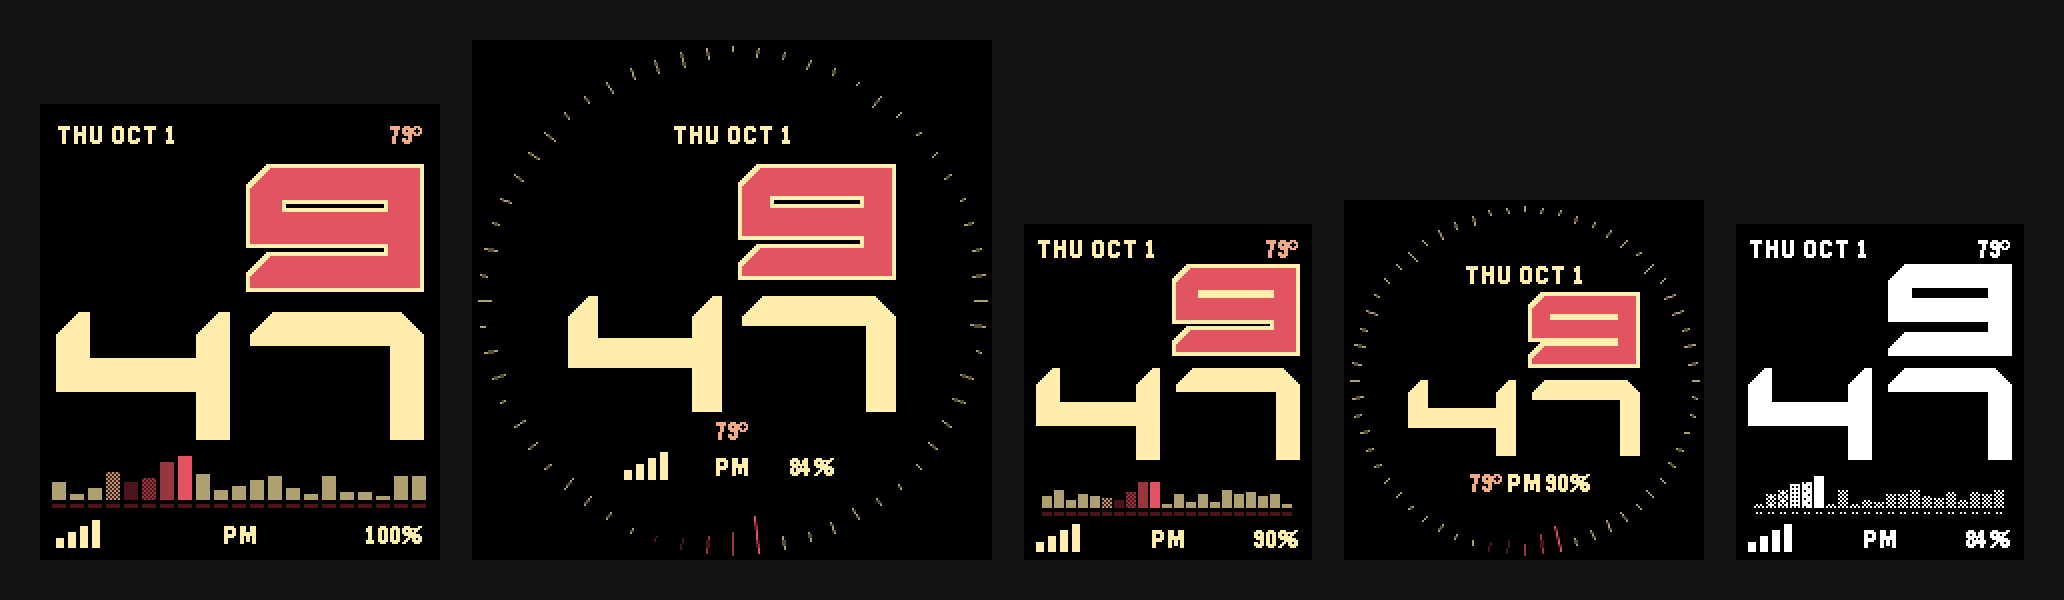
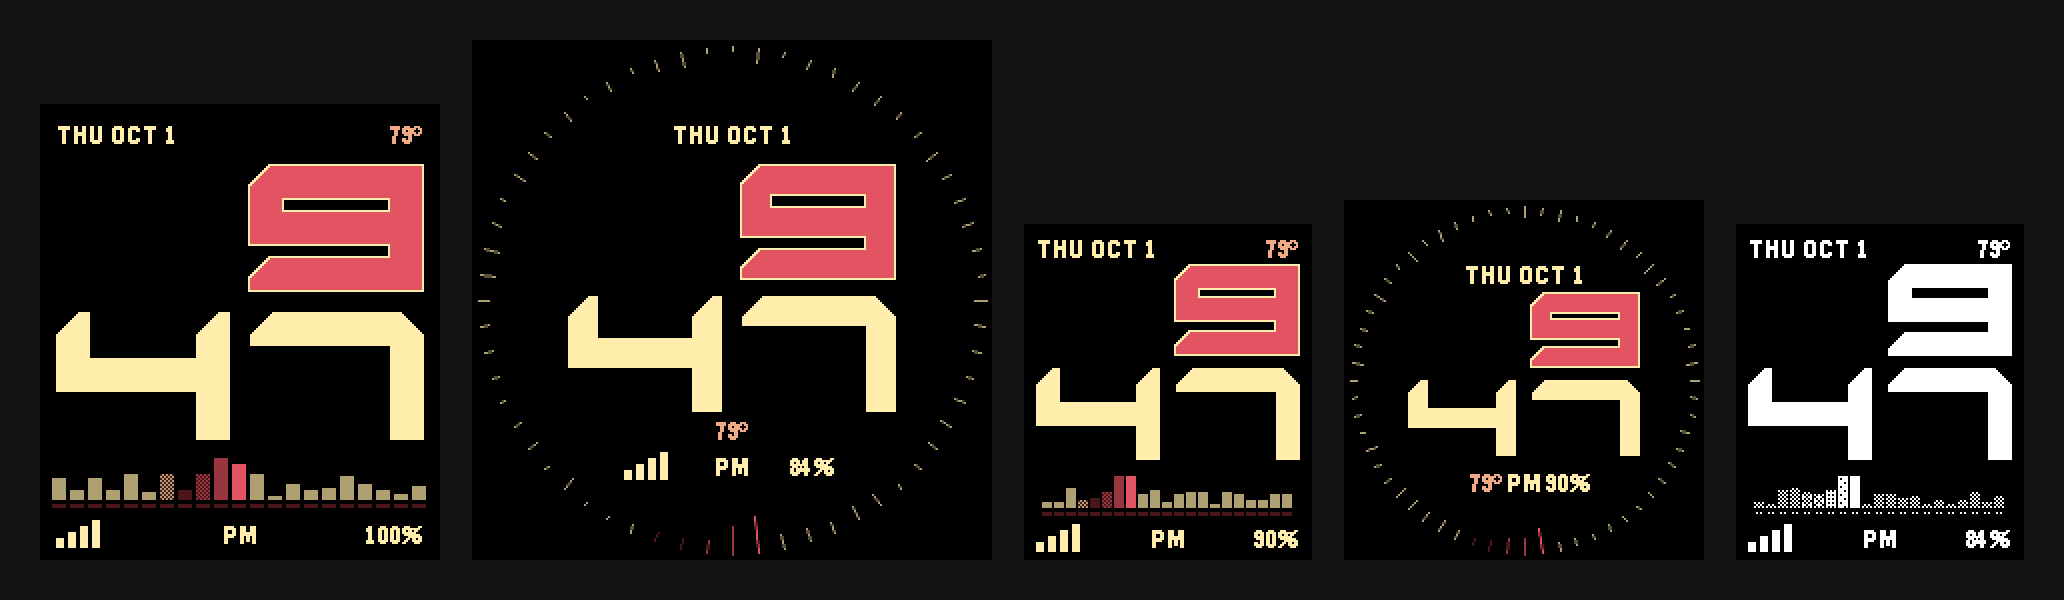
feat: 1 px hour outline; store shots and demos retaken (#33)
The 2 px cream outline read too heavy on the real Time 2. It is now 1 px, the digit inset by 1 px
so the outlined hour still fills the same frame. Store screenshots, README images and demos are
retaken with it.

diff --git a/src/c/numeral_layer.c b/src/c/numeral_layer.c
@@ -2,7 +2,7 @@
 #include "logic/numeral.h"
 #include "numeral_layer.h"
 
-#define NUMERAL_OUTLINE 2
+#define NUMERAL_OUTLINE 1
 #define SHAPE_BUF_RECTS (NUMERAL_MAX_RECTS + 2 * 12)
 
 typedef struct {
@@ -79,7 +79,7 @@ static void draw_digit_outlined(GContext *ctx, char ch, int x, int y, int w, int
   graphics_context_set_fill_color(ctx, outline_color);
   for (int i = 0; i < m; i++) {
     NumRect r = shapes[i];
-    graphics_fill_rect(ctx, GRect(r.x - 2, r.y - 2, r.w + 4, r.h + 4), 0, GCornerNone);
+    graphics_fill_rect(ctx, GRect(r.x - NUMERAL_OUTLINE, r.y - NUMERAL_OUTLINE, r.w + 2 * NUMERAL_OUTLINE, r.h + 2 * NUMERAL_OUTLINE), 0, GCornerNone);
   }
 
   graphics_context_set_fill_color(ctx, color);

diff --git a/openspec/changes/outline-1px/specs/time-display/spec.md b/openspec/changes/outline-1px/specs/time-display/spec.md
@@ -1,0 +1,18 @@
+# Spec Delta
+
+## MODIFIED Requirements
+
+### Requirement: Hour outline
+On colour watches, when the hour colour is red, pink, purple, blue, teal or green, the hour digits
+SHALL carry a 1 px outline in the minute colour, following every edge including the chamfers. The
+outlined hour SHALL occupy the same frame as an un-outlined one: the digits are inset by 1 px on
+each side and drawn with a stroke 1 px thinner. Cream, gold and white hours, and black-and-white
+watches, SHALL have no outline.
+
+#### Scenario: Backlight off
+- **WHEN** the hour is red and the backlight is off
+- **THEN** the hour digits are ringed in cream and line up with the minute digits' edges
+
+#### Scenario: Cream hour
+- **WHEN** the hour colour is cream
+- **THEN** the hour is drawn without an outline, exactly as before

diff --git a/openspec/changes/outline-1px/proposal.md b/openspec/changes/outline-1px/proposal.md
@@ -1,0 +1,21 @@
+# Proposal
+
+## Why
+
+On the real Time 2 the 2 px cream outline around the hour reads as too heavy and makes the digit
+harder to read. The owner wants it at 1 px.
+
+## What Changes
+
+- The hour outline becomes 1 px. The digit is inset by 1 px on each side (still with the 1 px
+  thinner stroke), so the outlined hour keeps filling the same frame.
+- The grow amount in the outline pass uses NUMERAL_OUTLINE instead of a literal 2.
+
+## Capabilities
+
+### Modified Capabilities
+- `time-display`: outline width.
+
+## Impact
+
+`src/c/numeral_layer.c` only.

diff --git a/openspec/changes/outline-1px/design.md b/openspec/changes/outline-1px/design.md
@@ -1,0 +1,5 @@
+# Design
+
+`NUMERAL_OUTLINE` goes from 2 to 1, and the outline pass grows each shape rect by
+`NUMERAL_OUTLINE` on every side: `GRect(r.x - NUMERAL_OUTLINE, r.y - NUMERAL_OUTLINE,
+r.w + 2 * NUMERAL_OUTLINE, r.h + 2 * NUMERAL_OUTLINE)`. The inset already uses the constant.

diff --git a/openspec/changes/outline-1px/tasks.md b/openspec/changes/outline-1px/tasks.md
@@ -1,0 +1,5 @@
+# Tasks
+
+- [x] 1.1 numeral_layer.c: 1 px outline, grow by the constant
+- [x] 1.2 Emulator check on emery, gabbro, chalk; install on the owner's Time 2
+- [x] 1.3 Retake the store screenshots and README demos with the 1 px outline
